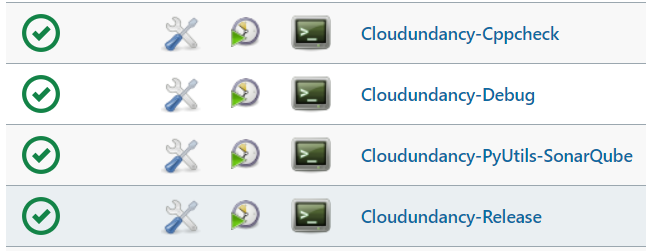
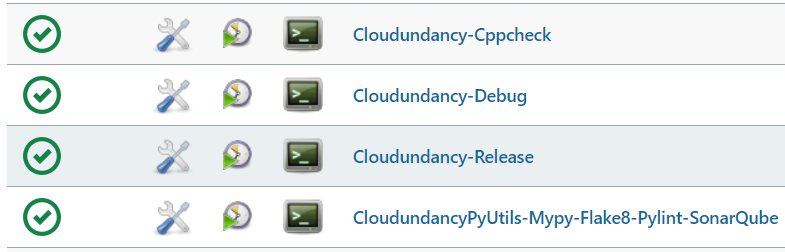
Update Windows Jenkins jobs screenshot

diff --git a/README.md b/README.md
@@ -23,7 +23,7 @@ Cloudundancy is rigorously unit tested with <a href="https://github.com/NeilJust
 * [Cloudundancy Code Structure As It Appears In Visual Studio Code On Linux](#cloudundancy-code-structure-as-it-appears-in-visual-studio-code-on-linux)
 * [Cloudundancy Code Structure As It Appears In Visual Studio 2019 On Windows](#cloudundancy-code-structure-as-it-appears-in-visual-studio-2019-on-windows)
 * [Linux Jenkins jobs Which Build, Cppcheck, clang-tidy, AddressSanitize, and UndefinedBehaviorSanitize Cloudundancy's C++ Code and SonarQube Scan Cloudundancy's Python Code](#linux-jenkins-jobs-which-build-cppcheck-clang-tidy-addresssanitize-and-undefinedbehaviorsanitize-cloudundancys-c-code-and-sonarqube-scan-cloudundancys-python-code)
-* [Windows Jenkins Jobs Which Build and Cppcheck Cloudundancy's C++ Code and SonarQube Scan Cloudundancy's Python Code](#windows-jenkins-jobs-which-build-and-cppcheck-cloudundancys-c-code-and-sonarqube-scan-cloudundancys-python-code)
+* [Windows Jenkins Jobs Which Build and Cppcheck Cloudundancy's C++ Code and Mypy-Flake8-Pylint-SonarQube Cloudundancy's Python Code](#windows-jenkins-jobs-which-build-and-cppcheck-cloudundancys-c-code-and-mypy-flake8-pylint-sonarqube-cloudundancys-python-code)
 * [How To Build Binary cloudundancy On Linux With Clang](#how-to-build-binary-cloudundancy-on-linux-with-clang)
 * [How To Build Executable Cloudundancy.exe On Windows with Visual Studio 2019](#how-to-build-executable-cloudundancyexe-on-windows-with-visual-studio-2019)
 * [Cloudundancy Roadmap](#cloudundancy-roadmap)
@@ -272,7 +272,7 @@ A Jenkins Blue Ocean build pipeline builds the following Cloudundancy Jenkins jo
 
 ![Linux Cloudundancy Jenkins jobs](Screenshots/Linux/LinuxCloudundancyJenkinsJobs.png)
 
-## Windows Jenkins Jobs Which Build and Cppcheck Cloudundancy's C++ Code and SonarQube Scan Cloudundancy's Python Code
+## Windows Jenkins Jobs Which Build and Cppcheck Cloudundancy's C++ Code and Mypy-Flake8-Pylint-SonarQube Cloudundancy's Python Code
 
 A Jenkins Blue Ocean build pipeline builds the following Cloudundancy Jenkins jobs on Windows 10 with Visual Studio 2019:
 
